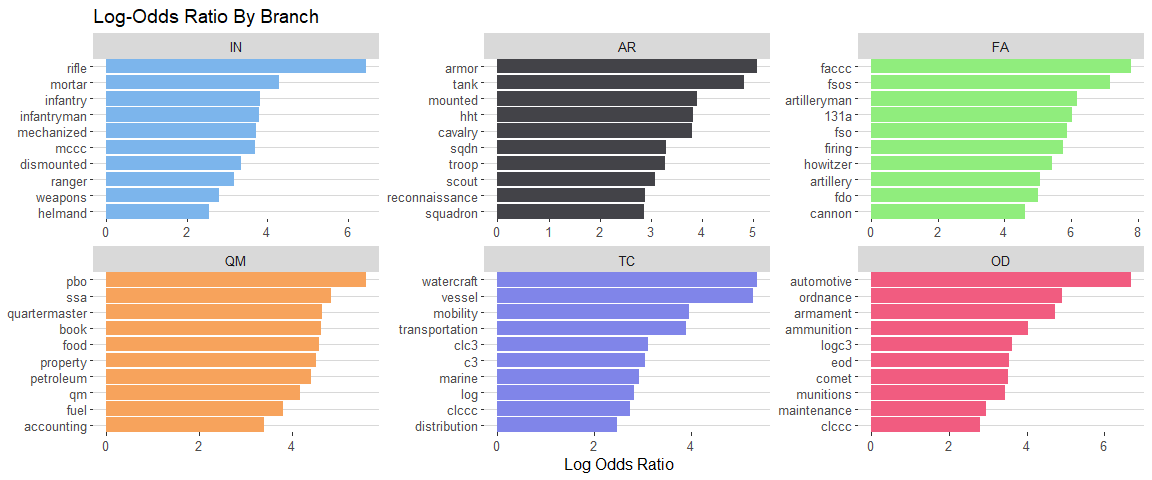
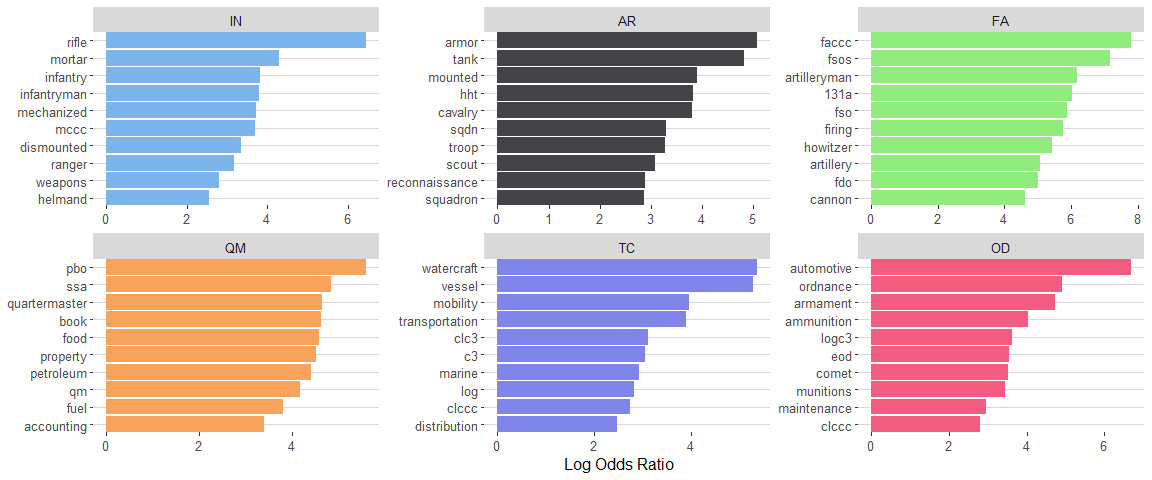
changed network graph

Changed region(s): [[0.0, 0.0, 1.0, 0.9062]]

diff --git a/OER_Plots.md b/OER_Plots.md
@@ -113,8 +113,8 @@ unweighted_log_odds_plot <- ggplot(unweighted_log_odds_ordered, aes(order, logod
     breaks = unweighted_log_odds_ordered$order,
     labels = paste0(unweighted_log_odds_ordered$srNarrativeWords),
     expand = c(0,0)
-  ) +
-  ggtitle("Log-Odds Ratio By Branch")
+  )
+  #ggtitle("Log-Odds Ratio By Branch")
 
 unweighted_log_odds_plot
 ```
@@ -260,24 +260,25 @@ par(mfrow=c(1, 2))
 clp_mq_maneuver <- cluster_optimal(bigram_graph_maneuver_mq)
 V(bigram_graph_maneuver_mq)$community <- clp_mq_maneuver$membership
 E(bigram_graph_maneuver_mq)$width <- E(bigram_graph_maneuver_mq)$n/300
-#V(bigram_graph_maneuver_mq)$size <- V(bigram_graph_maneuver_mq)$n
+V(bigram_graph_maneuver_mq)$size <- sqrt(degree(bigram_graph_maneuver_mq))*8
 
 mq_clusters_maneuver <- plot(bigram_graph_maneuver_mq, layout = layout_with_fr,
                              edge.arrow.size = 0.2,
-                             vertex.color = V(bigram_graph_maneuver_mq)$community, vertex.size = 10,
+                             vertex.color = V(bigram_graph_maneuver_mq)$community, #vertex.size = 10,
                              vertex.frame.color = "gray", vertex.label.color = "black",
-                             vertex.label.cex = 0.8, vertex.label.dist = 2, 
+                             vertex.label.cex = 0.8, vertex.label.dist = 1, 
                              main = "Most Qualified Maneuver Branches")
 
 clp_hq_maneuver <- cluster_optimal(bigram_graph_maneuver_hq)
 V(bigram_graph_maneuver_hq)$community <- clp_hq_maneuver$membership
 E(bigram_graph_maneuver_hq)$width <- E(bigram_graph_maneuver_hq)$n/300
+V(bigram_graph_maneuver_hq)$size <- sqrt(degree(bigram_graph_maneuver_hq))*8
 
 hq_clusters_maneuver <- plot(bigram_graph_maneuver_hq, layout = layout_with_fr,
                     edge.arrow.size = 0.2,
-                    vertex.color = V(bigram_graph_maneuver_hq)$community, vertex.size = 10,
+                    vertex.color = V(bigram_graph_maneuver_hq)$community, #vertex.size = 10,
                     vertex.frame.color = "gray", vertex.label.color = "black",
-                    vertex.label.cex = 0.8, vertex.label.dist = 2,
+                    vertex.label.cex = 0.8, vertex.label.dist = 1,
                     main = "Highly Qualified Maneuver Branches")
 ```
 
